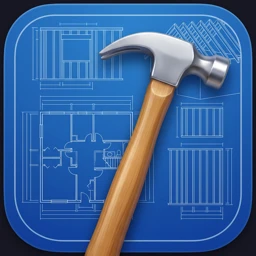
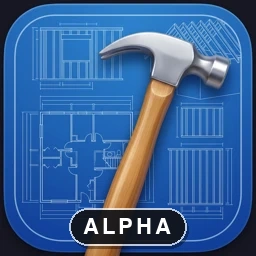
Panel/switch RO edge clearance + Alpha branding
- panelMountU inflates opening spans by the enclosure half-width + 6in
  clearance (prod report: a door overlapping the mount point by a sliver
  left the panel jammed against the jamb); device nudge margin 2in→4in so
  boxes clear the casing visibly. Gated.
- ALPHA pill baked into the plugin icon (bottom-center, art untouched),
  'Alpha access' lead in the catalog description, ALPHA chip next to the
  panel title.

Changed region(s): [[0.25, 0.8125, 0.75, 1.0]]

diff --git a/src/engines/electrical.ts b/src/engines/electrical.ts
@@ -411,9 +411,15 @@ export function layoutElectrical(walls: WallSlice[], rooms: RoomSlice[]): Fixtur
  */
 export function panelMountU(wall: WallSlice): number {
   const mid = wall.length / 2
-  // Enclosure ≈ 30in tall centered at 60in AFF.
+  // Enclosure ≈ 30in tall centered at 60in AFF — and ~16in WIDE, so the
+  // rough opening must clear the box EDGE, not just its centerline, plus
+  // working clearance off the casing (prod report: a door overlapping the
+  // wall midpoint by a sliver left the panel jammed against the jamb).
+  const PANEL_HALF_W = inches(8)
+  const CLEARANCE = inches(6)
+  const inflate = PANEL_HALF_W + CLEARANCE
   const doors = openingSpans(wall, PANEL_AFF - inches(15), PANEL_AFF + inches(15)).map(
-    (s) => [s.lo, s.hi] as const,
+    (s) => [Math.max(0, s.lo - inflate), Math.min(wall.length, s.hi + inflate)] as const,
   )
   if (!doors.some(([lo, hi]) => mid > lo && mid < hi)) return mid
   let bestLo = 0
@@ -690,7 +696,9 @@ const RUN_ZONE_TOP = WIRE_RUN_Y + 8 * 0.012 + inches(2)
  * cable can't drop through a doorway OR a window; it lands in the first
  * stud bay past the king studs. */
 function clearOfOpenings(wall: WallSlice, u: number, y0 = 0, y1 = RUN_ZONE_TOP): number {
-  const margin = inches(2)
+  // Box edge + casing clearance, not just the point: 4in keeps a device
+  // visibly off the RO trim (prod report: box kissing the door edge).
+  const margin = inches(4)
   for (const s of openingSpans(wall, y0, y1)) {
     if (u > s.lo && u < s.hi) {
       const snapLo = Math.max(margin, s.lo - margin)

diff --git a/src/engines/electrical.openings.test.ts b/src/engines/electrical.openings.test.ts
@@ -239,3 +239,23 @@ describe('electrical vs rough openings (prod 2026-08-15)', () => {
     expect(unreachableDevices(members, fixtures)).toEqual([])
   })
 })
+
+describe('panel edge clearance (prod 2026-08-16)', () => {
+  test('a door overlapping the mount point by a sliver still pushes the panel clear', () => {
+    // door RO ends 5 cm past the wall midpoint — the panel CENTER is
+    // outside the RO but the 16in enclosure would overlap the jamb
+    const wallSliver = makeWall({
+      id: 'w_s',
+      start: [0, 0],
+      end: [8, 0],
+      openings: [opening('door', 3.55, 0.95, 0, 2.15)], // RO: 3.075..4.025
+    })
+    const u = panelMountU(wallSliver)
+    const halfW = 0.2032 // 8in
+    const lo = 3.075
+    const hi = 4.025
+    // enclosure edge (u ± 8in) plus 6in clearance stays out of the RO
+    expect(u + halfW < lo || u - halfW > hi).toBe(true)
+    expect(Math.min(Math.abs(u - lo), Math.abs(u - hi))).toBeGreaterThan(halfW + 0.1)
+  })
+})

diff --git a/src/panel.tsx b/src/panel.tsx
@@ -50,7 +50,12 @@ export default function BonesPanel() {
   return (
     <div className="flex flex-col gap-4 p-4 text-sidebar-foreground">
       <header className="flex flex-col gap-1">
-        <h2 className="font-semibold text-base">Bones</h2>
+        <div className="flex items-center gap-2">
+          <h2 className="font-semibold text-base">Bones</h2>
+          <span className="rounded-full border border-sidebar-border/60 bg-sidebar-accent px-1.5 py-px font-semibold text-[9px] text-sidebar-foreground/70 uppercase tracking-widest">
+            Alpha
+          </span>
+        </div>
         <p className="text-sidebar-foreground/50 text-xs leading-relaxed">
           The engineering X-ray — see the construction inside the model: framing, foundation,
           wiring. Computed from your walls, sized to your jurisdiction.

diff --git a/src/index.ts b/src/index.ts
@@ -40,7 +40,7 @@ export const bonesHostPanel: PluginHostPanel = {
   component: () => import('./panel'),
   pluginId: bonesPlugin.id,
   description:
-    'Engineering X-ray for Pascal — see through the finishes to the actual construction: wall framing, floors, roof, foundation, and electrical, derived from your model and sized to your jurisdiction.',
+    'Alpha access — new and evolving fast. The engineering X-ray for Pascal: see through the finishes to the actual construction — wall framing, floors, roof, foundation, and electrical, derived from your model and sized to your jurisdiction.',
   creator: {
     name: 'Julien Brissonneau',
     url: 'https://github.com/Snoopy147',
